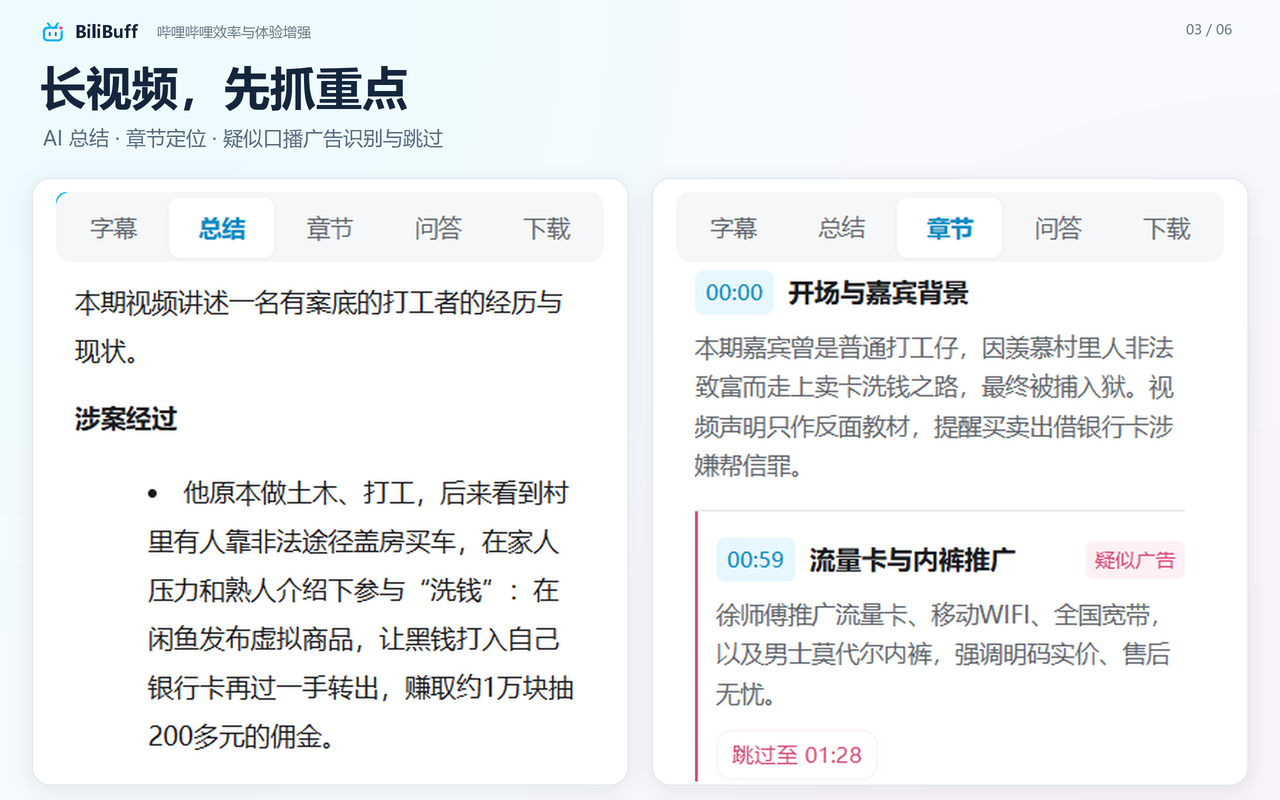
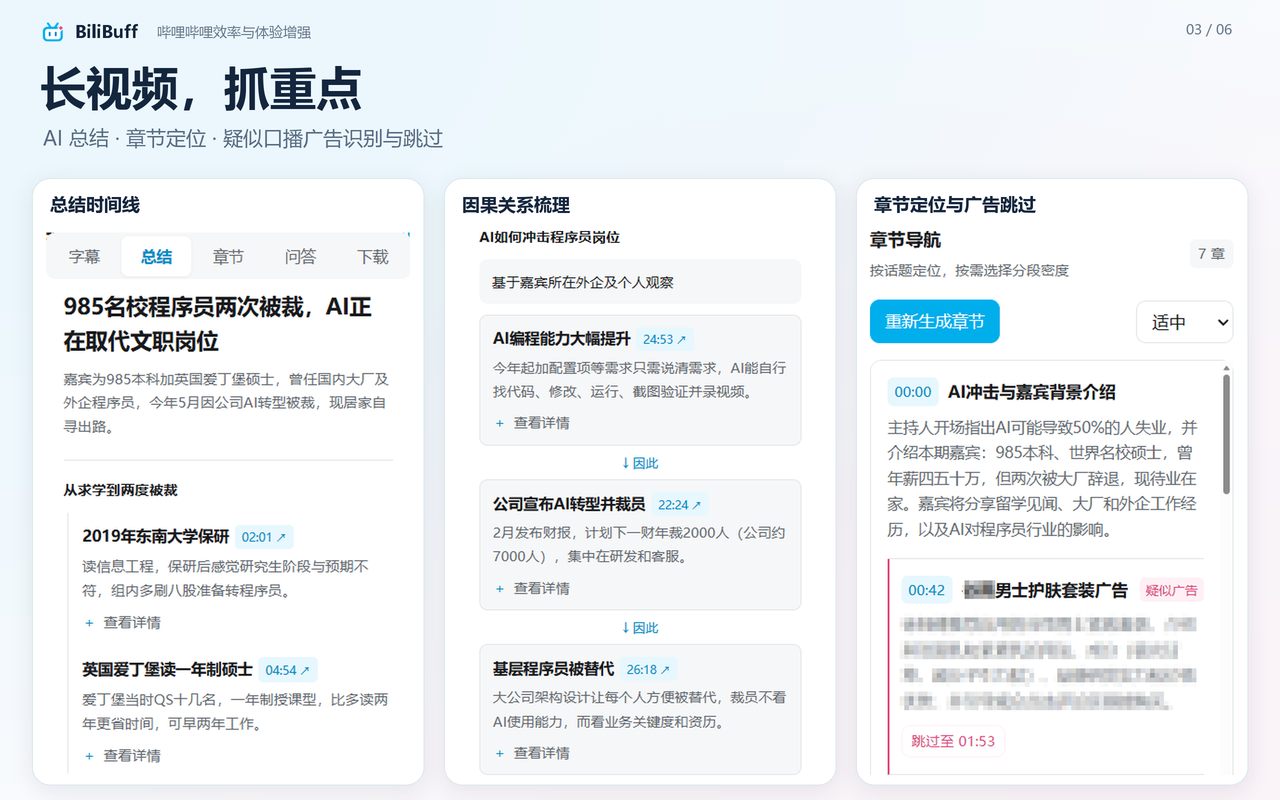
文本更新

diff --git a/README.md b/README.md
@@ -23,6 +23,11 @@
 
 **BiliBuff** 是面向 B 站学习与日常浏览的**效率**与**体验**增强插件。推荐筛选、屏蔽视频、留白首页、观看统计，加上按需使用的 AI计划分析、AI视频助手和AI评论区速读，让找内容、看视频、读评论超丝滑。
 
+当前chrome扩展商店已发布，edge用户也可通过该链接安装扩展
+<a href="https://chromewebstore.google.com/detail/lapdedhlnlgldnfbedabdpfabhimkdok?utm_source=item-share-cb" style="color:pink;">BiliBuff - 哔哩哔哩｜B站效率与体验增强插件</a>
+
+edge扩展商店即将发布，敬请期待
+
 ![BiliBuff：上 B 站，加个 Buff，AI 总结、评论速读与推荐筛选](docs/images/promotional-banner.png)
 
 ## 推荐可以挑一挑
